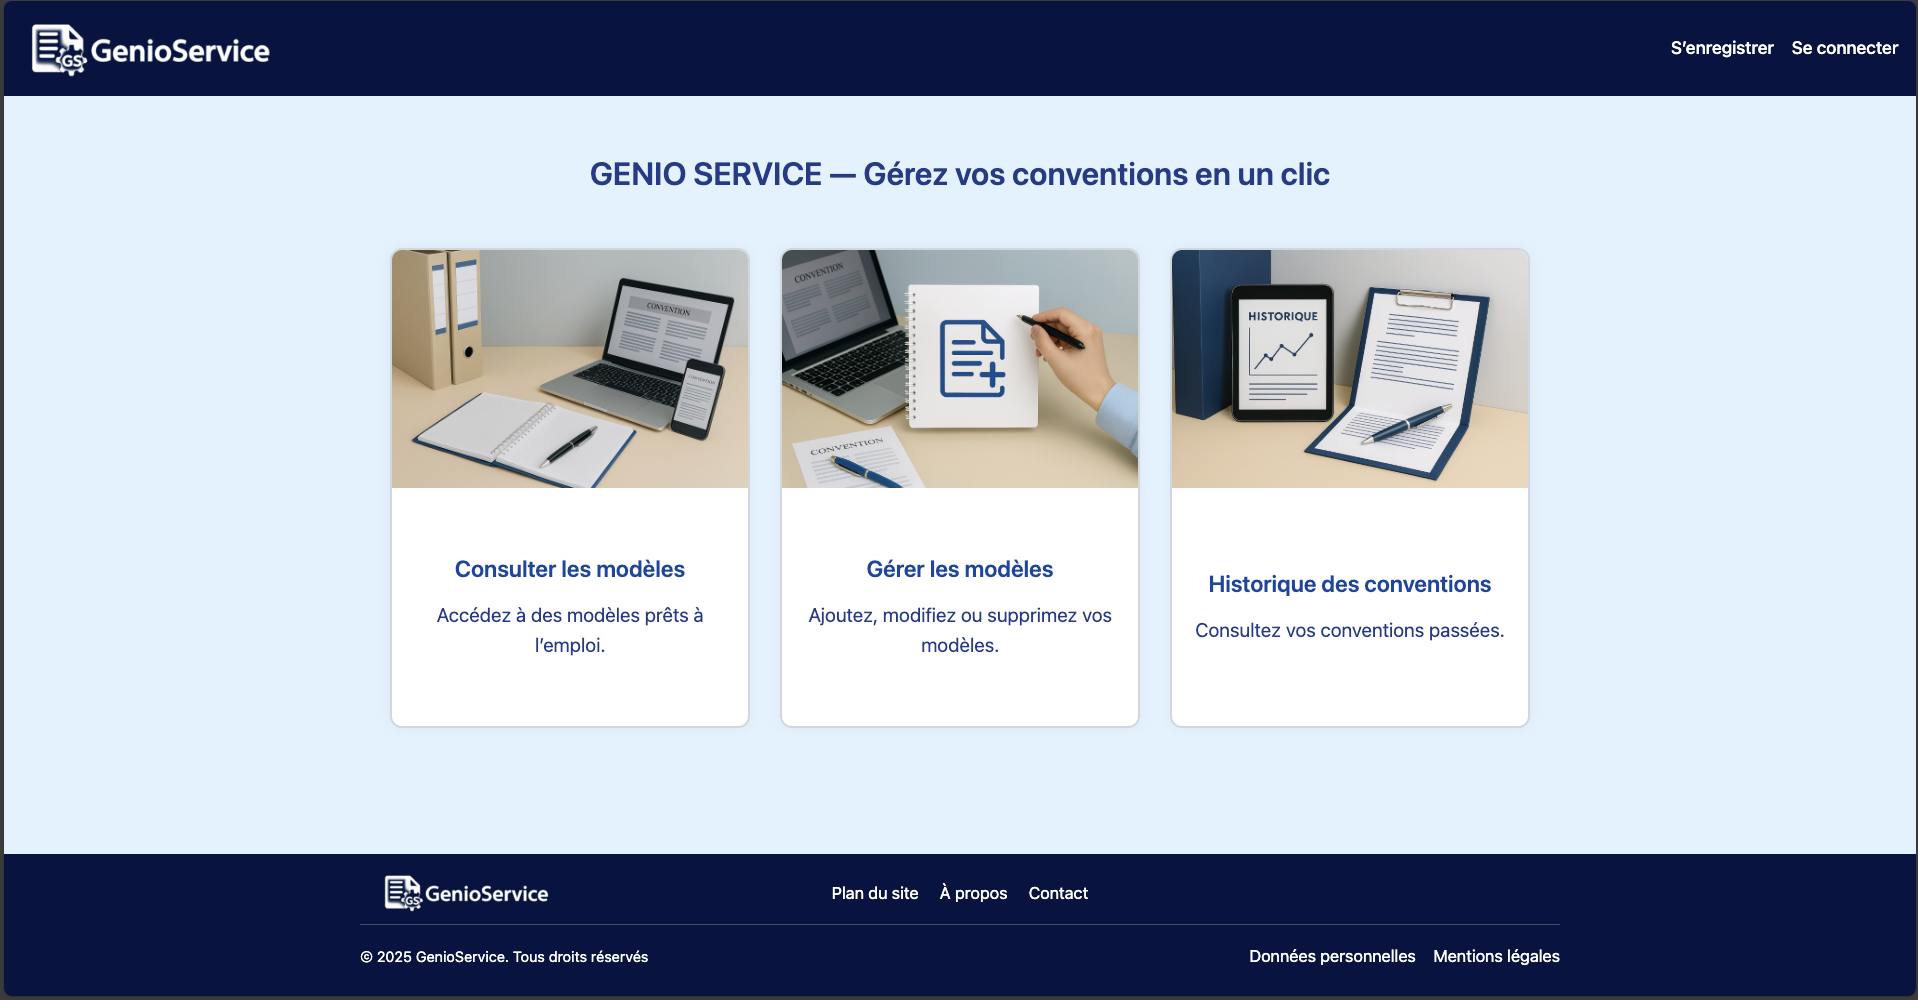
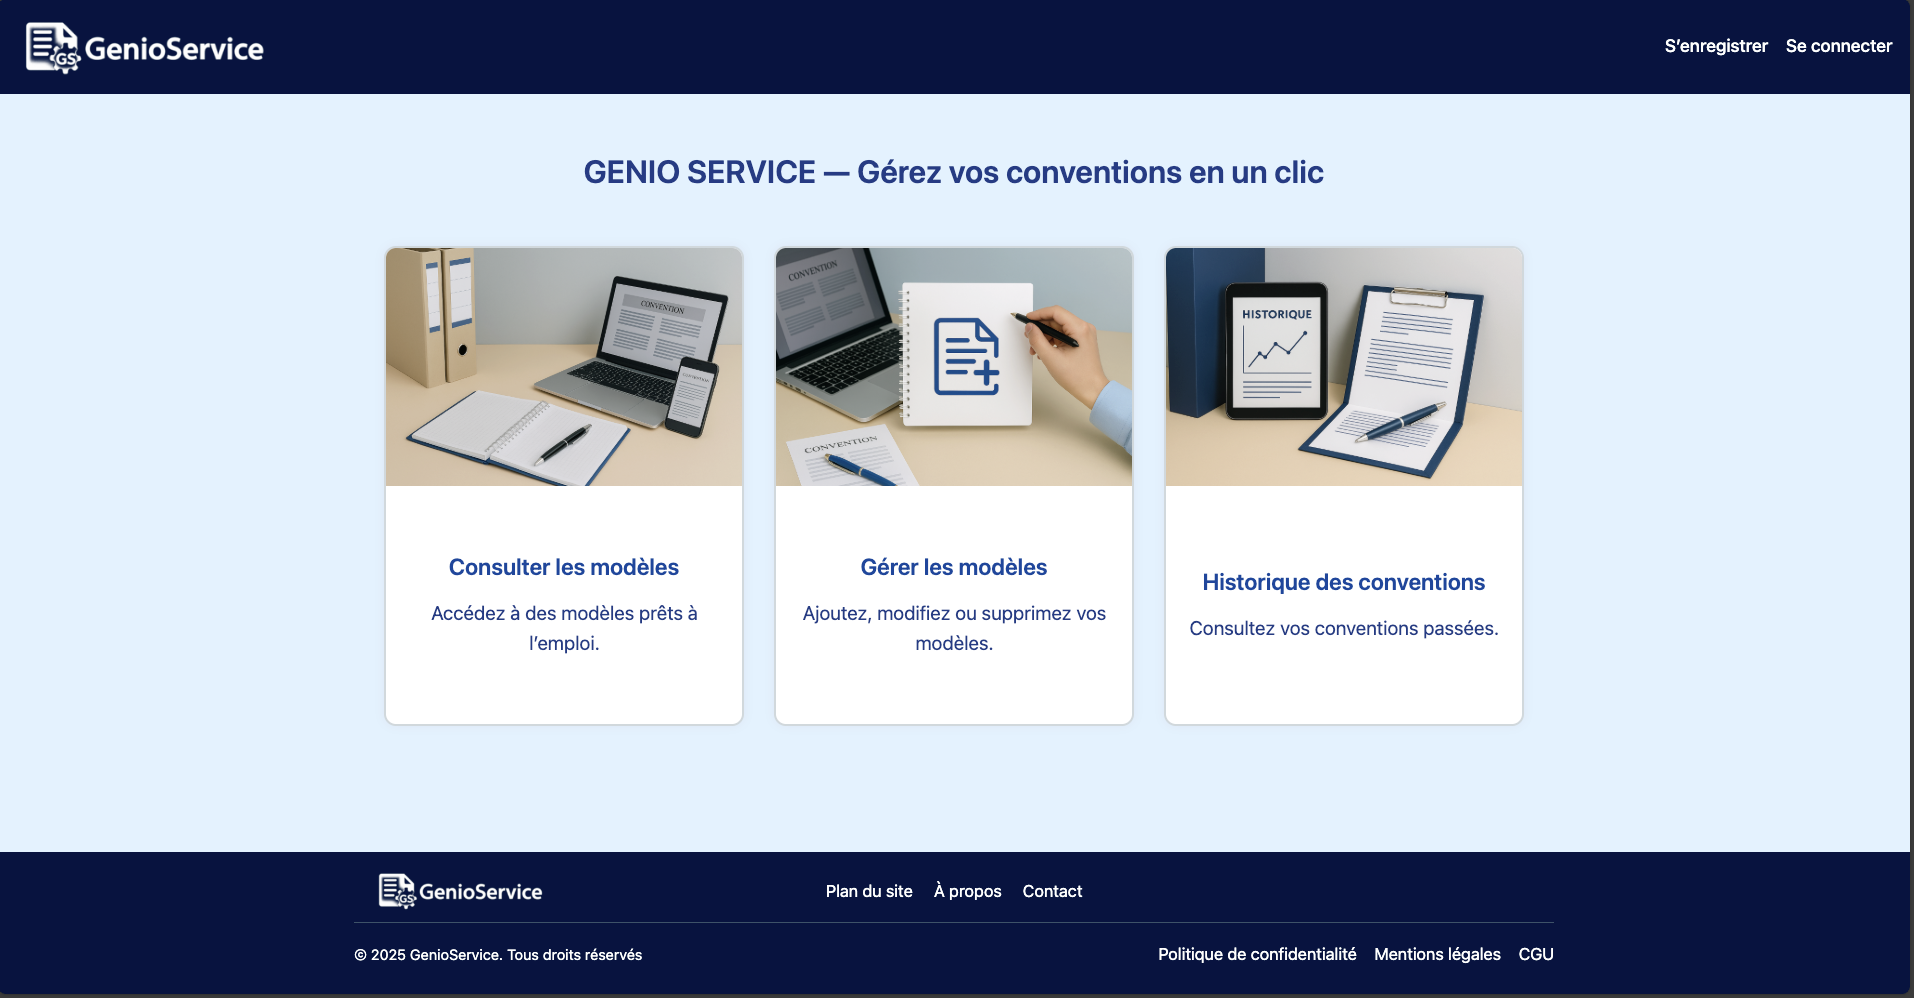
modification doc fonctionelle

diff --git a/docs/04-doc-fonctionnelle.md b/docs/04-doc-fonctionnelle.md
@@ -4,7 +4,7 @@
 
 ## Sommaire
 
-- [Page d’accueil](#page-daccueil)
+- [Page d’Accueil](#page-daccueil)
 - [Écran de connexion](#écran-de-connexion)
 - [Écran d’inscription](#écran-dinscription)
 - [Écran de réinitialisation du mot de passe](#écran-de-réinitialisation-du-mot-de-passe)
@@ -22,10 +22,11 @@
 - [Page – Plan du site](#page--plan-du-site)
 - [Page – À propos de GenioService](#page--à-propos-de-genioservice)
 - [Page – Contact](#page--contact)
-- [Page – Politique de confidentialité](#page--politique-de-confidentiakité)
+- [Page – Politique de confidentialité](#page--politique-de-confidentialité)
 - [Pages - Mentions légales](#page--mentions-légales)
+- [Conditions Générales d’Utilisation (CGU)](#page--conditions-générales-dutilisation-cgu)
 
-## Page d’accueil
+## Page d’Accueil
 
 ### Objectif de page d'accueil
 
@@ -42,14 +43,14 @@ Il permet à l’utilisateur d’accéder aux trois grandes fonctionnalités du 
 
 <!-- markdownlint-disable MD033 -->
 <div>
-  <img src="./assets/images/page-accueil.png" alt="Page d’accueil GenioService" width="600"/>
+  <img src="./assets/images/page-accueil.png" alt="Page d’Accueil GenioService" width="600"/>
 </div>
 
 ---
 
 ### Fonctionnement de page d'accueil
 
-- La page d’accueil est composée de **trois cartes interactives**.
+- La Page d’Accueil est composée de **trois cartes interactives**.
 - Chaque carte redirige vers la page de **connexion** (/connexion) si l’utilisateur n’est pas encore connecté.
 - Une fois connecté, l’utilisateur accède à la fonctionnalité selon ses droits.
 
@@ -181,33 +182,40 @@ C’est l’étape préalable à toute utilisation du service.
   - **Adresse e-mail**
   - **Mot de passe**
   - **Confirmation du mot de passe**
+  - **Case à cocher obligatoire** :  
+    _Je déclare avoir pris connaissance et accepte les [Conditions Générales d’Utilisation](/cgu) et la [Politique de confidentialité](/confidentialite)._
 
 - Une fois tous les champs valides :
-  - Le bouton **S’enregistrer** envoie les données via POST /api/utilisateurs
-  - L’adresse e-mail est vérifiée pour **unicité** en temps réel (appel GET /exists)
+  - Le bouton **S’enregistrer** envoie les données via `POST /api/utilisateurs`
+  - L’adresse e-mail est vérifiée pour **unicité** en temps réel (`GET /api/utilisateurs/exists`)
   - Si inscription réussie, l’utilisateur est redirigé vers la page de **connexion**
   - En cas d’erreur, un message clair est affiché en haut du formulaire
 
 - Le formulaire inclut une **vérification dynamique du mot de passe** :
-  - La liste des règles non respectées est affichée en badges rouges sous le champ
+  - Les règles non respectées s’affichent en **badges rouges** sous le champ
+  - Elles disparaissent une à une dès qu’elles sont respectées
 
 ---
 
 ### Exigences fonctionnelles de page d'inscription
 
 - Tous les champs sont **obligatoires** (required)
-- Le mot de passe doit **respecter toutes les règles suivantes** :
+- Le mot de passe doit respecter **toutes les règles suivantes** :
   - Minimum **12 caractères**
   - Contenir **au moins 1 majuscule**
   - Contenir **au moins 1 chiffre**
   - Contenir **au moins 1 caractère spécial**
-- Les mots de passe et confirmation doivent **être identiques**
-- Si l’adresse e-mail existe déjà, un message s’affiche : Cet e-mail est déjà utilisé.
-- En cas d’erreur, le message disparaît automatiquement après quelques secondes
-- Accessibilité :
-  - aria-label, aria-live, aria-describedby intégrés
-  - Navigation clavier et lecteurs d’écran prise en charge
-- Comportement responsive (PC et mobile)
+- Les mots de passe et la confirmation doivent être **identiques**
+- L’adresse e-mail doit être **unique** dans la base de données
+- La **case à cocher RGPD est obligatoire** :
+  - Elle doit être cochée pour permettre l’envoi du formulaire
+  - En cas d’absence de consentement, un message d’erreur s’affiche :  
+    _Vous devez accepter les conditions pour vous inscrire._
+- En cas d’erreur, un message s’affiche en haut du formulaire, puis disparaît automatiquement après quelques secondes
+- **Accessibilité** :
+  - `aria-label`, `aria-live`, `aria-describedby` intégrés
+  - Compatible avec la **navigation clavier** et les **lecteurs d’écran**
+- **Responsive** : fonctionne sur PC et mobile
 
 ---
 
@@ -1515,7 +1523,7 @@ Informer l’utilisateur des engagements de GenioService concernant la protectio
 ---
 
 ### Aperçu de la page Politique de confidentialité
-
+<!-- markdownlint-disable MD033 -->
 <div>
   <img src="./assets/images/page-confidentialite.png" alt="Page Politique de confidentialité – GenioService" width="600"/>
 </div>
@@ -1524,17 +1532,27 @@ Informer l’utilisateur des engagements de GenioService concernant la protectio
 
 ### Fonctionnement de l’écran de la page Politique de confidentialité
 
-- Accessible publiquement depuis le footer (lien "Politique de confidentialité").
+- Accessible publiquement depuis le footer (lien « Politique de confidentialité »).
+- Lien également présent dans le formulaire d’inscription (via la case à cocher obligatoire) :
+  > « Je déclare avoir pris connaissance et accepte la [Politique de confidentialité](/confidentialite) »
 - Structure en **6 sections explicites** :
-  1. **Engagement de GenioService** : conformité au RGPD, pas de collecte sans consentement.
-  2. **Vos droits** : suppression, opposition, limitation (droit à la vie privée).
-       - Coordonnées de la DPO (Elsa Hadjadj) fournies (email et adresse postale).
-       - Obligation de joindre une pièce d’identité pour toute demande.
-  3. **Données collectées** : uniquement celles nécessaires à l’authentification et gestion.
-       - Aucune donnée sensible stockée en clair.
-  4. **Utilisation des cookies** : uniquement cookies techniques (aucun traceur pub).
-  5. **Gérer vos préférences** : liens vers les paramètres de chaque navigateur.
-  6. **Liens utiles** : vers le site de la CNIL pour plus d’infos.
+  1. **Engagement de GenioService** : conformité stricte au RGPD, aucune collecte sans consentement.
+  2. **Vos droits** : possibilité de demander l’accès, la rectification, l’effacement ou la limitation des données.
+  - Coordonnées de la DPO (Elsa Hadjadj) fournies.
+  - Justificatif d’identité exigé pour valider la demande.
+  3. **Données collectées** : uniquement les données nécessaires à l’inscription et à l’authentification.
+  - Aucune donnée sensible stockée en clair ni utilisée à d'autres fins.
+  4. **Utilisation des cookies** :
+  - Uniquement des cookies techniques nécessaires à la session (pas de cookies publicitaires).
+  5. **Gérer vos préférences** :
+  - Instructions pour configurer les cookies via les navigateurs (Chrome, Firefox, Safari…).
+  6. **Liens utiles** :
+  - Renvoi vers le site de la CNIL pour approfondir ses droits et démarches.
+
+- Les données personnelles sont conservées pendant une durée maximale de **1 an après la dernière activité** sur le compte. Passé ce délai, le compte est automatiquement désactivé.
+- Si aucune demande de suppression n’est formulée, les données sont conservées pendant encore **5 ans à des fins d’archivage pédagogique**, puis automatiquement supprimées ou anonymisées de manière irréversible.
+- À tout moment, l’utilisateur peut **demander la suppression immédiate de ses données** en contactant la Déléguée à la Protection des Données (DPO) à l’adresse suivante : <a href="mailto:elsa.simha.hadjadj@gmail.com">elsa.simha.hadjadj@gmail.com</a>.
+- Conformément au principe de **minimisation** du RGPD, GenioService ne collecte que les données strictement nécessaires au fonctionnement de la plateforme.
 
 ---
 
@@ -1601,12 +1619,13 @@ Présenter les informations légales obligatoires liées à l'éditeur du site G
 ### Fonctionnement de la page Mentions légales
 
 - Accessible depuis le **footer** sur toutes les pages via le lien « Mentions légales ».
-- Contenu réparti en **5 sections** :
+- Contenu réparti en **6 sections** principales :
   1. **Éditrice du site** : identité de l’auteure (Elsa Hadjadj), encadrement (Jérémy Marcinkowski), et localisation de l’établissement (IUT de Montreuil).
   2. **Technologies utilisées** : framework front-end (Angular), back-end (Spring Boot), responsive design, accessibilité.
   3. **Dépôts GitHub** : liens directs vers les dépôts frontend et backend publics.
   4. **Propriété intellectuelle** : licence Creative Commons **CC BY-NC-SA 4.0** (usage non commercial, attribution requise).
-  5. **Hébergement** : mention que le site est exécuté localement à des fins pédagogiques (pas d’hébergeur professionnel impliqué).
+  5. **Hébergement** : site hébergé en France sur un serveur local à des fins pédagogiques, conforme RGPD.
+  6. **Green IT** : principes d’éco-conception numérique appliqués au projet.
 
 ---
 
@@ -1630,7 +1649,7 @@ Présenter les informations légales obligatoires liées à l'éditeur du site G
   - `RouterLink`, `NgIf`, `BreadcrumbComponent`
 - **Accessibilité** :
   - `<main>` avec `aria-labelledby`
-  - Icônes décoratives en `aria-hidden`
+  - Icônes décoratives en `aria-hidden="true"`
 - **Responsive** : lisibilité sur petit écran (mobile-first)
 - **Sécurité** :
   - Aucun script ou fonctionnalité active sur cette page
@@ -1643,3 +1662,70 @@ Présenter les informations légales obligatoires liées à l'éditeur du site G
 Cette page est obligatoire en France, même dans un cadre académique, dès lors qu’un site est mis à disposition d’un public. Elle clarifie la responsabilité éditoriale et le périmètre d’utilisation du projet GenioService.
 
 ---
+
+## Page – Conditions Générales d’Utilisation (CGU)
+
+### Objectif de la page Conditions Générales d’Utilisation (CGU)
+
+Présenter les règles d’utilisation du site GenioService et les engagements réciproques entre l’utilisateur et l’éditeur.  
+Cette page précise les droits, responsabilités, et modalités d’accès au service, conformément aux bonnes pratiques juridiques en matière de services en ligne.
+
+---
+
+### Aperçu de la page Conditions Générales d’Utilisation (CGU)
+
+<!-- markdownlint-disable MD033 -->
+<div>
+  <img src="./assets/images/page-cgu.png" alt="Page Conditions Générales d’Utilisation (CGU) – GenioService" width="600"/>
+</div>
+
+---
+
+### Fonctionnement de la page Conditions Générales d’Utilisation (CGU)
+
+- Lien permanent dans le footer (`<footer>`) de toutes les pages.
+- Lien également présent dans le formulaire d’inscription (case à cocher obligatoire) :
+  > « Je déclare avoir pris connaissance et accepte les [Conditions Générales d’Utilisation](/cgu) »
+- Contenu structuré en 6 sections :
+  1. **Objet** : but et portée des CGU, acceptation des conditions.
+  2. **Accès au service** : nécessité d’un compte (email + mot de passe), confidentialité des identifiants.
+  3. **Responsabilités** : cas d’exonération (panne, mauvaise utilisation, accès frauduleux).
+  4. **Politique de confidentialité** : renvoi vers la page dédiée à la politique de confidentialité.
+  5. **Modifications** : possibilité de modification des CGU à tout moment.
+  6. **Droit applicable** : droit français, juridiction compétente = Paris.
+
+### Exigences de la page Mentions légales et Conditions Générales d’Utilisation (CGU)
+
+- Texte **clair, synthétique et accessible**, lisible pour tout utilisateur.
+- **Lien vers cette page affiché dans le footer**, à côté des mentions légales et politique de confidentialité.
+- Lien direct vers la politique de confidentialité dans la section "Politique de confidentialité".
+- Page **statique** sans interaction, pour garantir accessibilité et sécurité.
+- Mention claire de l’acceptation implicite des CGU lors de l’utilisation du service.
+
+---
+
+### Exigences techniques de la page Conditions Générales d’Utilisation (CGU)
+
+- **Composant Angular** : `ConditionsUtilisationComponent` (`standalone`)
+- **Technos utilisées** :
+  - Frontend : Angular (HTML5, CSS3, TypeScript)
+  - Backend : Spring Boot (Java, REST API)
+- **Imports nécessaires** :
+  - `RouterLink`, `NgIf`, `BreadcrumbComponent`
+- **Accessibilité** :
+  - `<main>` avec `aria-labelledby`
+  - Icônes décoratives avec `aria-hidden="true"`
+- **Responsive design** : texte lisible sur mobile/tablette
+- **Sécurité** :
+  - Aucun script actif
+  - Liens protégés par `rel="noopener"`
+
+---
+
+### Complément pour la page Conditions Générales d’Utilisation (CGU)
+
+Bien que non strictement obligatoire dans un cadre académique, une page CGU est **fortement recommandée** pour tout site qui implique une **création de compte** ou un **service d’authentification**.
+Elle permet de définir un cadre clair pour les utilisateurs et de **limiter la responsabilité de l’éditeur** en cas d’usage abusif, d’indisponibilité ou d’erreurs techniques.
+
+---
+
